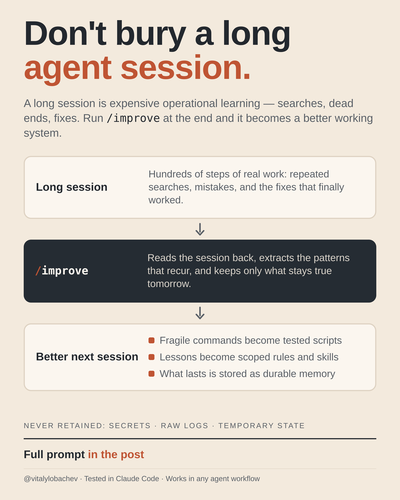
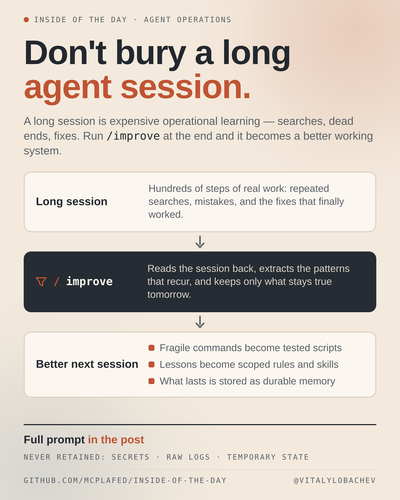
design(linkedin): restore series framing

diff --git a/posts/12-improve-the-harness/source/infographic-v5.html b/posts/12-improve-the-harness/source/infographic-v5.html
@@ -10,74 +10,41 @@
     --ink:#23282E;
     --ink-soft:#5A6067;
     --terra:#BF5433;
-    --blue:#5B7A96;
     --line:#DED2C2;
     --slate:#252C33;
   }
   *{margin:0;padding:0;box-sizing:border-box;}
   html,body{background:#111;}
 
-  /* One family. Four sizes: 92 / 30 / 27 / 20. Two weights: 500 / 800.
-     Monospace only for the literal /improve and the metadata line. */
+  /* One family. Four sizes: 92 / 30 / 27 / 20. Two weights: 500 / 800. */
   .canvas{
     position:relative;
     width:1080px;height:1350px;
-    /* Two pale soft orbs, no grid. Painted as background layers rather than
-       absolutely positioned elements: a box hanging off the right/bottom edge
-       still counts toward the scrollable overflow region (even under
-       overflow:hidden) and would push scrollWidth/scrollHeight past 1080x1350.
-       Backgrounds never do, so the canvas stays exactly 1080x1350.
-       Centres/radii match the former .orb-a (960,80) and .orb-b (110,1280);
-       the extra stops stand in for the old 60px blur. */
-    background-color:var(--paper);
-    background-image:
-      radial-gradient(circle 470px at 960px 80px,
-        rgba(191,84,51,.20) 0%, rgba(191,84,51,.15) 28%,
-        rgba(191,84,51,.09) 52%, rgba(191,84,51,.03) 72%,
-        rgba(191,84,51,0) 100%),
-      radial-gradient(circle 510px at 110px 1280px,
-        rgba(91,122,150,.18) 0%, rgba(91,122,150,.13) 28%,
-        rgba(91,122,150,.08) 52%, rgba(91,122,150,.03) 72%,
-        rgba(91,122,150,0) 100%);
-    background-repeat:no-repeat;
+    background:var(--paper);
     font-family:Arial,FreeSans,Helvetica,sans-serif;
     font-weight:500;
     color:var(--ink);
     overflow:hidden;
-    padding:40px 64px 40px;
-    display:flex;flex-direction:column;
-  }
-
-  /* --- the single metadata treatment (level 4) --- */
-  .meta{
-    font-family:"SF Mono",Menlo,Consolas,monospace;
-    font-size:20px;line-height:1.3;font-weight:500;
-    text-transform:uppercase;letter-spacing:.14em;color:var(--ink-soft);
-  }
-
-  .series{display:flex;align-items:center;gap:14px;}
-  .series .dot{
-    width:14px;height:14px;flex:0 0 14px;border-radius:50%;background:var(--terra);
+    padding:44px 64px 0;
   }
 
   /* --- headline (level 1) --- */
   h1{
-    margin-top:30px;
     font-size:92px;line-height:1.0;font-weight:800;letter-spacing:-.02em;
   }
-  h1 em{font-style:normal;color:var(--terra);}
+  h1 em{font-style:normal;color:var(--terra);}   /* terracotta 1 of 4 */
 
   .lead{
-    margin-top:28px;
+    margin-top:32px;
     font-size:30px;line-height:1.34;font-weight:500;color:var(--ink-soft);
   }
   .lead code{font-family:"SF Mono",Menlo,Consolas,monospace;color:var(--ink);}
 
   /* --- the spine (level 2) --- */
-  .flow{margin-top:34px;}
+  .flow{margin-top:40px;}
   .stage{
     display:flex;align-items:center;gap:24px;
-    min-height:164px;padding:24px 30px;
+    min-height:170px;padding:26px 30px;
     border-radius:20px;
   }
   .stage .name{
@@ -93,12 +60,8 @@
   .s1 .body,.s3 .body{color:var(--ink-soft);}
 
   .s2{background:var(--slate);color:var(--paper-2);}
-  .s2 .name{
-    display:flex;align-items:center;gap:16px;
-    font-family:"SF Mono",Menlo,Consolas,monospace;
-  }
-  .s2 .name span{color:var(--terra);}
-  .s2 .name svg{display:block;flex:0 0 34px;}
+  .s2 .name{font-family:"SF Mono",Menlo,Consolas,monospace;}
+  .s2 .name span{color:var(--terra);}            /* terracotta 2 of 4 */
   .s2 .body{color:#D8D2C9;}
 
   .s3 .out{flex:1;display:flex;flex-direction:column;gap:10px;}
@@ -106,35 +69,35 @@
     display:flex;align-items:center;gap:14px;
     font-size:27px;line-height:1.3;font-weight:500;color:var(--ink-soft);
   }
-  .s3 .bar{
+  .s3 .bar{                                       /* terracotta 3 of 4 */
     width:16px;height:16px;flex:0 0 16px;border-radius:4px;background:var(--terra);
   }
 
   /* bare arrows, no labels */
-  .arrow{height:52px;display:flex;align-items:center;justify-content:center;}
+  .arrow{height:56px;display:flex;align-items:center;justify-content:center;}
   .arrow svg{display:block;}
 
   /* --- bottom zone --- */
-  .foot{margin-top:auto;padding-top:30px;}
+  .foot{position:absolute;left:64px;right:64px;bottom:44px;}
+  .micro{
+    font-size:20px;line-height:1.3;font-weight:500;
+    text-transform:uppercase;letter-spacing:.14em;color:var(--ink-soft);
+  }
   .cta{
-    border-top:3px solid var(--ink);padding-top:20px;
+    margin-top:20px;
+    border-top:3px solid var(--ink);padding-top:22px;
     font-size:30px;line-height:1.3;font-weight:800;
   }
-  .cta em{font-style:normal;color:var(--terra);}
-  .takeaway{margin-top:14px;}
+  .cta em{font-style:normal;color:var(--terra);}  /* terracotta 4 of 4 */
   .credits{
-    margin-top:20px;padding-top:16px;
+    margin-top:18px;padding-top:14px;
     border-top:1px solid var(--line);
-    display:flex;align-items:baseline;justify-content:space-between;gap:24px;
+    font-size:20px;line-height:1.3;font-weight:500;color:var(--ink-soft);
   }
 </style>
 </head>
 <body>
 <div class="canvas">
-
-  <div class="series meta">
-    <span class="dot"></span>Inside of the day · Agent operations
-  </div>
 
   <h1>Don't bury a long<br><em>agent session.</em></h1>
 
@@ -162,13 +125,7 @@
     </div>
 
     <div class="stage s2">
-      <div class="name">
-        <svg width="34" height="34" viewBox="0 0 34 34" fill="none" aria-hidden="true">
-          <path d="M4 6h26L21 18v10l-8-5V18L4 6z" stroke="#BF5433" stroke-width="3"
-                stroke-linecap="round" stroke-linejoin="round"/>
-        </svg>
-        <span>/</span>improve
-      </div>
+      <div class="name"><span>/</span>improve</div>
       <div class="body">
         Reads the session back, extracts the patterns that recur, and keeps only
         what stays true tomorrow.
@@ -195,11 +152,10 @@
   </div>
 
   <div class="foot">
+    <div class="micro">Never retained: secrets · raw logs · temporary state</div>
     <div class="cta">Full prompt <em>in the post</em></div>
-    <div class="takeaway meta">Never retained: secrets · raw logs · temporary state</div>
-    <div class="credits meta">
-      <span>github.com/mcplafed/inside-of-the-day</span>
-      <span>@vitalylobachev</span>
+    <div class="credits">
+      @vitalylobachev · Tested in Claude Code · Works in any agent workflow
     </div>
   </div>
 
